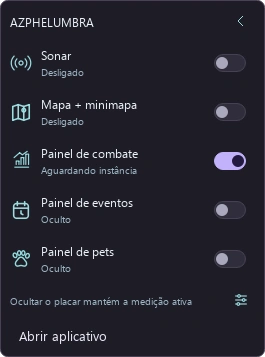
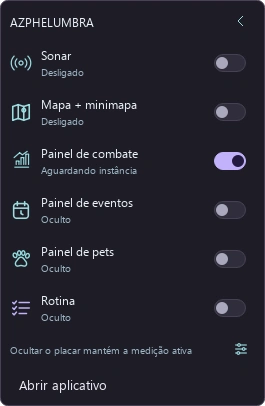
Publish beta4 downloads and update the bilingual website guide

diff --git a/website/index.html b/website/index.html
@@ -30,10 +30,10 @@
   <main id="main">
     <section class="hero container">
       <div class="hero-copy">
-        <div class="eyebrow"><span class="live-dot"></span>AION 2 COMPANION <span class="version-pill">v0.10.0-beta.1</span></div>
+        <div class="eyebrow"><span class="live-dot"></span>AION 2 COMPANION <span class="version-pill">v0.10.0-beta.4</span></div>
         <h1 data-i18n="hero.title">Sua próxima<br>descoberta<br><em>começa aqui.</em></h1>
         <p class="hero-description" data-i18n="hero.description">Mapas, coletas, cubos, pets, eventos e combate em um só lugar. Aether cuida do mapa. Você vive a aventura.</p>
-        <div class="hero-buttons"><a class="button primary" href="https://github.com/jpgalvao-architect/strigoi-aether-map/releases/download/v0.10.0-beta.1/StrigoiAetherMap-Setup-0.10.0-beta.1.exe"><svg viewBox="0 0 24 24" fill="none" stroke="currentColor" stroke-width="1.8" aria-hidden="true"><path d="M12 3v12m-5-5 5 5 5-5M4 16v5h16v-5"/></svg><span data-i18n="download.installer">Baixar instalador</span></a><a class="button secondary" href="#explore"><span data-i18n="hero.tour">Conhecer o app</span><span aria-hidden="true">↗</span></a><a class="button secondary" href="guide.html" data-i18n="start.guide">Abrir guia interativo</a></div>
+        <div class="hero-buttons"><a class="button primary" href="https://github.com/jpgalvao-architect/strigoi-aether-map/releases/download/v0.10.0-beta.4/StrigoiAetherMap-Setup-0.10.0-beta.4.exe"><svg viewBox="0 0 24 24" fill="none" stroke="currentColor" stroke-width="1.8" aria-hidden="true"><path d="M12 3v12m-5-5 5 5 5-5M4 16v5h16v-5"/></svg><span data-i18n="download.installer">Baixar instalador</span></a><a class="button secondary" href="#explore"><span data-i18n="hero.tour">Conhecer o app</span><span aria-hidden="true">↗</span></a><a class="button secondary" href="guide.html" data-i18n="start.guide">Abrir guia interativo</a></div>
         <p class="download-note"><svg viewBox="0 0 24 24" aria-hidden="true"><path fill="currentColor" d="m2 4 9-1v9H2zm11-1 9-1v10h-9zM2 14h9v9l-9-1zm11 0h9v10l-9-1z"/></svg><span data-i18n="hero.platform">Windows 10/11 · 64 bits · PT-BR / EN-US</span></p>
         <div class="hero-bottom"><span data-i18n="hero.free">Gratuito, com código aberto</span><span class="divider-dot">·</span><a href="https://github.com/jpgalvao-architect/strigoi-aether-map/blob/main/LICENSE" data-i18n="hero.license">Código GPLv3</a></div>
       </div>
@@ -49,13 +49,13 @@
     <div class="feature-ribbon"><div class="container ribbon-inner"><span><img src="assets/icons/atlas.svg" alt="" width="22" height="22"><span data-i18n="ribbon.maps">Mapas reais</span></span><span><img src="assets/icons/overlay.svg" alt="" width="22" height="22"><span data-i18n="ribbon.overlay">Overlay externo</span></span><span><img src="assets/icons/sonar.svg" alt="" width="22" height="22"><span data-i18n="ribbon.sonar">Acessibilidade auditiva</span></span><span><img src="assets/icons/moon.svg" alt="" width="22" height="22"><span data-i18n="ribbon.local">Seus registros, no seu PC</span></span></div></div>
     <section class="container explore-section" id="explore">
       <div class="section-heading"><div><p class="eyebrow" data-i18n="explore.eyebrow">MENOS ALT-TAB. MAIS EXPLORAÇÃO.</p><h2 data-i18n="explore.title">Um mapa que acompanha<br>a sua jornada.</h2></div><p data-i18n="explore.description">Escolha suas camadas, registre as visitas e deixe o Azphelumbra acompanhar o que importa para você.</p></div>
-      <div class="showcase-tabs" role="tablist" aria-label="Conheça as telas" data-i18n-aria="showcase.label"><button type="button" role="tab" id="tab-atlas" aria-selected="true" aria-controls="showcase-panel" tabindex="0" data-tab="atlas"><img src="assets/icons/atlas.svg" alt=""><span data-i18n="tab.atlas">Atlas</span></button><button type="button" role="tab" id="tab-overlay" aria-selected="false" aria-controls="showcase-panel" tabindex="-1" data-tab="overlay"><img src="assets/icons/overlay.svg" alt=""><span data-i18n="tab.overlay">Overlay</span></button><button type="button" role="tab" id="tab-events" aria-selected="false" aria-controls="showcase-panel" tabindex="-1" data-tab="events"><img src="assets/icons/events.svg" alt=""><span data-i18n="tab.events">Eventos</span></button><button type="button" role="tab" id="tab-sonar" aria-selected="false" aria-controls="showcase-panel" tabindex="-1" data-tab="sonar"><img src="assets/icons/sonar.svg" alt=""><span>Sonar</span></button><button type="button" role="tab" id="tab-combat" aria-selected="false" aria-controls="showcase-panel" tabindex="-1" data-tab="combat"><img src="assets/icons/combat.svg" alt=""><span data-i18n="tab.combat">Combate</span></button><button type="button" role="tab" id="tab-pets" aria-selected="false" aria-controls="showcase-panel" tabindex="-1" data-tab="pets"><img src="assets/icons/pets.svg" alt=""><span data-i18n="tab.pets">Pets</span></button></div>
-      <div class="showcase" id="showcase-panel" role="tabpanel" aria-labelledby="tab-atlas" tabindex="0"><div class="window-chrome"><span class="window-dots"><i></i><i></i><i></i></span><span>AZPHELUMBRA <span class="chrome-version">/ v0.10.0-beta.1</span></span><span class="window-indicator" data-i18n="showcase.actual">TELA REAL DO APP</span></div><img id="app-screenshot" src="assets/app-atlas-pt_BR.webp" alt="Atlas do aplicativo exibindo o mapa real de Altgard" data-i18n-alt="screen.atlas" width="2070" height="1350" loading="lazy"><div class="showcase-caption"><span id="showcase-number">01 / 05</span><div><h3 id="showcase-title" data-i18n="showcase.atlas.title">Seu atlas. Suas camadas.</h3><p id="showcase-description" data-i18n="showcase.atlas.description">Veja ervas e cubos juntos, filtre os recursos e marque os lugares que você já visitou.</p></div><img id="showcase-icon" src="assets/icons/atlas.svg" width="40" height="40" alt=""></div></div>
+      <div class="showcase-tabs" role="tablist" aria-label="Conheça as telas" data-i18n-aria="showcase.label"><button type="button" role="tab" id="tab-atlas" aria-selected="true" aria-controls="showcase-panel" tabindex="0" data-tab="atlas"><img src="assets/icons/atlas.svg" alt=""><span data-i18n="tab.atlas">Atlas</span></button><button type="button" role="tab" id="tab-overlay" aria-selected="false" aria-controls="showcase-panel" tabindex="-1" data-tab="overlay"><img src="assets/icons/overlay.svg" alt=""><span data-i18n="tab.overlay">Overlay</span></button><button type="button" role="tab" id="tab-events" aria-selected="false" aria-controls="showcase-panel" tabindex="-1" data-tab="events"><img src="assets/icons/events.svg" alt=""><span data-i18n="tab.events">Eventos</span></button><button type="button" role="tab" id="tab-sonar" aria-selected="false" aria-controls="showcase-panel" tabindex="-1" data-tab="sonar"><img src="assets/icons/sonar.svg" alt=""><span>Sonar</span></button><button type="button" role="tab" id="tab-combat" aria-selected="false" aria-controls="showcase-panel" tabindex="-1" data-tab="combat"><img src="assets/icons/combat.svg" alt=""><span data-i18n="tab.combat">Combate</span></button><button type="button" role="tab" id="tab-pets" aria-selected="false" aria-controls="showcase-panel" tabindex="-1" data-tab="pets"><img src="assets/icons/pets.svg" alt=""><span data-i18n="tab.pets">Pets</span></button><button type="button" role="tab" id="tab-routine" aria-selected="false" aria-controls="showcase-panel" tabindex="-1" data-tab="routine"><img src="assets/icons/routine.svg" alt=""><span data-i18n="tab.routine">Rotina</span></button></div>
+      <div class="showcase" id="showcase-panel" role="tabpanel" aria-labelledby="tab-atlas" tabindex="0"><div class="window-chrome"><span class="window-dots"><i></i><i></i><i></i></span><span>AZPHELUMBRA <span class="chrome-version">/ v0.10.0-beta.4</span></span><span class="window-indicator" data-i18n="showcase.actual">TELA REAL DO APP</span></div><img id="app-screenshot" src="assets/app-atlas-pt_BR.webp" alt="Atlas do aplicativo exibindo o mapa real de Altgard" data-i18n-alt="screen.atlas" width="2070" height="1350" loading="lazy"><div class="showcase-caption"><span id="showcase-number">01 / 07</span><div><h3 id="showcase-title" data-i18n="showcase.atlas.title">Seu atlas. Suas camadas.</h3><p id="showcase-description" data-i18n="showcase.atlas.description">Veja ervas e cubos juntos, filtre os recursos e marque os lugares que você já visitou.</p></div><img id="showcase-icon" src="assets/icons/atlas.svg" width="40" height="40" alt=""></div></div>
       <p class="source-note" data-i18n="explore.source">Imagens reais dos mapas e posições comunitárias com origem documentada. Os marcadores indicam locais possíveis, não spawns garantidos.</p>
     </section>
     <section class="sonar-section" id="sonar"><div class="container sonar-grid"><div class="sonar-visual" aria-hidden="true"><div class="sonar-ring ring-1"></div><div class="sonar-ring ring-2"></div><div class="sonar-ring ring-3"></div><img class="sonar-cube" src="assets/icons/cube.svg" alt="" width="88" height="88"><img class="sonar-alert" src="assets/sonar-alert-pt_BR.webp" data-alert-image alt="" width="350" height="181" loading="lazy"><span class="visual-caption" data-i18n="sonar.visual">UMA PISTA SONORA. UM AVISO VISUAL.</span></div><div class="sonar-copy"><p class="eyebrow" data-i18n="sonar.eyebrow">ACESSIBILIDADE AUDITIVA</p><h2 data-i18n="sonar.title">Uma pista que<br>você pode <em>ver.</em></h2><p data-i18n="sonar.description">O Sonar procura indícios do som do cubo e mostra um aviso com barra de intensidade e histórico recente. O volume do jogo influencia a leitura.</p><ul class="check-list"><li data-i18n="sonar.point1">Selecione o aplicativo do jogo e ative quando quiser.</li><li data-i18n="sonar.point2">Sem microfone, gravação ou envio do áudio.</li><li data-i18n="sonar.point3">O Sonar começa desligado a cada abertura.</li></ul><p class="accessibility-note" data-i18n="sonar.note">Desenvolvido como recurso de acessibilidade para pessoas surdas ou com deficiência auditiva. O aviso é uma pista: não confirma o cubo nem revela sua posição exata.</p></div></div></section>
     <section class="container start-section"><p class="eyebrow" data-i18n="start.eyebrow">DO DOWNLOAD À AVENTURA</p><h2 data-i18n="start.title">Pronto em poucos passos.</h2><div class="steps"><article><span class="step-number">01</span><h3 data-i18n="start.one.title">Instale e escolha o idioma</h3><p data-i18n="start.one.text">Baixe o instalador, leia os termos e escolha português ou inglês. Não precisa instalar Python.</p></article><article><span class="step-number">02</span><h3 data-i18n="start.two.title">Monte o seu mapa</h3><p data-i18n="start.two.text">Escolha as camadas do Atlas. A mesma seleção aparece no minimapa e no mapa grande.</p></article><article><span class="step-number">03</span><h3 data-i18n="start.three.title">Entre na aventura</h3><p data-i18n="start.three.text">Ative o overlay, selecione o terreno do minimapa uma vez e escolha o evento que quer acompanhar.</p></article></div><a class="button secondary guide-entry" href="guide.html" data-i18n="start.guide">Abrir guia interativo</a></section>
-    <section class="container download-section" id="download"><div class="download-box"><div><p class="eyebrow" data-i18n="download.eyebrow">SEU PEQUENO GUARDIÃO ESTÁ PRONTO</p><h2 data-i18n="download.title">Nos vemos em Atréia.</h2><p data-i18n="download.description">Escolha como quer usar o Azphelumbra. As duas versões têm os mesmos recursos e incluem o código-fonte.</p></div><div class="download-options"><a class="download-option recommended" href="https://github.com/jpgalvao-architect/strigoi-aether-map/releases/download/v0.10.0-beta.1/StrigoiAetherMap-Setup-0.10.0-beta.1.exe"><div class="option-heading"><span data-i18n="download.installer">Baixar instalador</span><span class="recommend-tag" data-i18n="download.recommended">Recomendado</span></div><p data-i18n="download.installer.detail">Atalhos, idioma inicial, desinstalação e assistente oficial do Npcap para Combate e Pets.</p><span class="option-meta">.EXE · 220.4 MB <span aria-hidden="true">↓</span></span></a><a class="download-option" href="https://github.com/jpgalvao-architect/strigoi-aether-map/releases/download/v0.10.0-beta.1/Azphelumbra-0.10.0-beta.1-windows-x64.zip"><div class="option-heading"><span data-i18n="download.portable">Baixar portátil</span><span aria-hidden="true">↗</span></div><p data-i18n="download.portable.detail">Extraia a pasta inteira e abra o app.</p><span class="option-meta">.ZIP · 259.2 MB <span aria-hidden="true">↓</span></span></a></div><p class="source-note" data-i18n="download.beta">Azphelumbra 0.10: interface Vigília, placar Impacto com barras de DPS por classe e faixa Fita de eventos. Sonar, Pets e menu rápido seguem a nova identidade. Suas preferências são preservadas. Combate e PvP continuam experimentais.</p><div class="download-links"><span>v0.10.0-beta.1 · Windows x64</span><a href="terms.html" data-i18n="download.terms">Ler os termos de uso</a><a href="https://github.com/jpgalvao-architect/strigoi-aether-map/releases/download/v0.10.0-beta.1/SHA256SUMS.txt" data-i18n="download.checksums">Verificar arquivos · SHA-256</a></div></div></section>
+    <section class="container download-section" id="download"><div class="download-box"><div><p class="eyebrow" data-i18n="download.eyebrow">SEU PEQUENO GUARDIÃO ESTÁ PRONTO</p><h2 data-i18n="download.title">Nos vemos em Atréia.</h2><p data-i18n="download.description">Escolha como quer usar o Azphelumbra. As duas versões têm os mesmos recursos e incluem o código-fonte.</p></div><div class="download-options"><a class="download-option recommended" href="https://github.com/jpgalvao-architect/strigoi-aether-map/releases/download/v0.10.0-beta.4/StrigoiAetherMap-Setup-0.10.0-beta.4.exe"><div class="option-heading"><span data-i18n="download.installer">Baixar instalador</span><span class="recommend-tag" data-i18n="download.recommended">Recomendado</span></div><p data-i18n="download.installer.detail">Atalhos, idioma inicial, desinstalação e assistente oficial do Npcap para Combate e Pets.</p><span class="option-meta">.EXE · 220.5 MB <span aria-hidden="true">↓</span></span></a><a class="download-option" href="https://github.com/jpgalvao-architect/strigoi-aether-map/releases/download/v0.10.0-beta.4/Azphelumbra-0.10.0-beta.4-windows-x64.zip"><div class="option-heading"><span data-i18n="download.portable">Baixar portátil</span><span aria-hidden="true">↗</span></div><p data-i18n="download.portable.detail">Extraia a pasta inteira e abra o app.</p><span class="option-meta">.ZIP · 259.3 MB <span aria-hidden="true">↓</span></span></a></div><p class="source-note" data-i18n="download.beta">Novo na beta.4: contador de pets com o personagem já logado, leitura de Insight e almas pela tela e ocultação dos overlays em mais menus. A Rotina reúne seus personagens e os saldos de Odyle, com Pulso compacto ou Faixa. Preferências preservadas; Combate e PvP continuam experimentais.</p><div class="download-links"><span>v0.10.0-beta.4 · Windows x64</span><a href="terms.html" data-i18n="download.terms">Ler os termos de uso</a><a href="https://github.com/jpgalvao-architect/strigoi-aether-map/releases/download/v0.10.0-beta.4/SHA256SUMS.txt" data-i18n="download.checksums">Verificar arquivos · SHA-256</a></div></div></section>
     <section class="container faq-section"><div><p class="eyebrow" data-i18n="faq.eyebrow">SEM MISTÉRIO</p><h2 data-i18n="faq.title">Antes de partir.</h2></div><div class="faq-list"><details><summary data-i18n="faq.one.q">O aplicativo modifica o jogo?</summary><p data-i18n="faq.one.a">Não. Os marcadores e avisos são janelas externas de overlay. O app analisa a imagem da tela e recebe o áudio pelo Windows; não injeta código nas DLLs, não altera arquivos nem lê a memória do AION 2. O Combate lê passivamente a conexão do jogo usando Npcap. Os termos descrevem as condições de uso.</p></details><details><summary data-i18n="faq.two.q">Funciona no minimapa e no mapa grande?</summary><p data-i18n="faq.two.a">Sim, com minimapa retangular e norte fixo. Selecione só o terreno do minimapa, sem a barra de título. Ao abrir o mapa grande com M, o overlay muda automaticamente; ao fechar, volta ao minimapa.</p></details><details><summary data-i18n="faq.three.q">A agenda é para a América do Sul?</summary><p data-i18n="faq.three.a">Há perfis de agenda SA, com fontes documentadas e horários no fuso que você escolher. Os mapas e locais possíveis vêm de bases comunitárias compartilhadas; as posições não foram verificadas individualmente em SA. Você pode consultar as fontes no aplicativo.</p></details><details><summary data-i18n="faq.four.q">Posso usar sem abrir o jogo?</summary><p data-i18n="faq.four.a">O Atlas, as visitas e a agenda local funcionam offline. Para usar overlay e Sonar, abra o jogo e ative esses recursos. Suas preferências e registros ficam no seu computador.</p></details><details><summary data-i18n="faq.five.q">Como troco o idioma depois de instalar?</summary><p data-i18n="faq.five.a">Abra Configurações → Idioma do aplicativo. A troca entre português do Brasil e inglês dos EUA é imediata. Ela não altera seus filtros, visitas, região ou fuso horário.</p></details><details><summary data-i18n="faq.six.q">Onde estão as licenças e o código?</summary><p data-i18n="faq.six.a">O código próprio usa GPLv3 e está no GitHub e nos downloads. Mapas, dados comunitários e componentes de terceiros mantêm seus direitos e licenças, incluindo CC BY-NC 4.0 para mapas e dados comunitários.</p><a href="https://github.com/jpgalvao-architect/strigoi-aether-map/blob/main/THIRD_PARTY.md" data-i18n="faq.licenses">Consultar licenças e créditos →</a></details></div></section>
     <section class="container support-section" id="support"><div class="support-copy"><img src="assets/icons/donate.svg" width="38" height="38" alt=""><h2 data-i18n="support.title">Curtiu a companhia?</h2><p data-i18n="support.description">Se meu trabalho te ajudou e você quiser retribuir, pode deixar uma força por aqui. Sem pressão: usar o app, mandar feedback e compartilhar com a galera já ajuda demais.</p><a class="button secondary" href="https://link.mercadopago.com.br/thothworlds" target="_blank" rel="noopener noreferrer"><span data-i18n="support.creator">Apoiar o criador</span><span aria-hidden="true">↗</span></a><small data-i18n="support.recipient">Apoio pessoal ao criador · Mercado Pago</small></div><div class="community-support"><p class="eyebrow" data-i18n="support.community.eyebrow">APOIE TAMBÉM A COMUNIDADE SURDA</p><p data-i18n="support.community.description">Você também pode contribuir diretamente com instituições brasileiras que apoiam pessoas surdas.</p><a href="https://assjp.org.br/junte-nos/seja-apoiador/" target="_blank" rel="noopener noreferrer">ASSJP<span>São José dos Pinhais</span><span aria-hidden="true">↗</span></a><a href="https://www.ascontagem.org.br/" target="_blank" rel="noopener noreferrer">ASC<span>Contagem</span><span aria-hidden="true">↗</span></a><small data-i18n="support.community.note">Doações feitas nos canais oficiais das instituições. Destinatários diferentes do apoio ao criador.</small></div></section>
   </main>

diff --git a/website/guide-content.js b/website/guide-content.js
@@ -123,7 +123,7 @@ window.StrigoiGuide = {
             "en_US": "Open the emblem menu"
           },
           "where": {
-            "pt_BR": "Mascote flutuante",
+            "pt_BR": "Emblema flutuante",
             "en_US": "Floating emblem"
           },
           "body": {
@@ -141,12 +141,12 @@ window.StrigoiGuide = {
             "en_US": "Choose what appears"
           },
           "where": {
-            "pt_BR": "Menu → quatro controles",
-            "en_US": "Menu → four controls"
+            "pt_BR": "Menu rápido → módulos",
+            "en_US": "Quick menu → modules"
           },
           "body": {
-            "pt_BR": "Sonar liga ou desliga a análise do áudio. Mapa + minimapa controla os dois mapas juntos. Painel de combate habilita a exibição automática em instâncias; fora delas, mostra Aguardando instância. Painel de eventos mostra ou oculta a agenda. Configure primeiro o minimapa e o Sonar nas respectivas abas.",
-            "en_US": "Sonar turns audio analysis on or off. Map + minimap controls both maps. Combat panel arms automatic display in instances; outside them, it shows Waiting for instance. Events panel shows or hides the schedule. Set up the minimap and Sonar in their tabs first."
+            "pt_BR": "Ative Sonar e Mapa + minimapa, mostre ou oculte os painéis de Combate, Eventos, Pets e Rotina. O placar aparece nas instâncias reconhecidas. Configure primeiro o minimapa e o Sonar nas respectivas abas.",
+            "en_US": "Enable Sonar and Map + minimap, and show or hide Combat, Events, Pets and Routine panels. The meter appears in recognized instances. Set up the minimap and Sonar in their tabs first."
           },
           "tip": {
             "pt_BR": "Ocultar o placar mantém a medição de combate ativa.",
@@ -200,20 +200,20 @@ window.StrigoiGuide = {
       "steps": [
         {
           "title": {
-            "pt_BR": "Sincronize ao entrar",
-            "en_US": "Sync at login"
+            "pt_BR": "Ative o contador",
+            "en_US": "Enable the counter"
           },
           "where": {
             "pt_BR": "Pets → Sincronizar com o jogo",
             "en_US": "Pets → Sync with game"
           },
           "body": {
-            "pt_BR": "Abra o Azphelumbra antes de entrar no personagem e confira a região. A coleção é recebida na entrada; não precisa deixar o menu do jogo aberto. A leitura automática usa Npcap.",
-            "en_US": "Open Azphelumbra before logging into your character and check the region. The collection arrives during login; you do not need to leave the game menu open. Automatic reading uses Npcap."
+            "pt_BR": "Deixe Sincronizar com o jogo ativo e favorite os pets que quer acompanhar. Mesmo com o personagem já logado, o painel mostra os ganhos recebidos nesta captura. A leitura automática usa Npcap.",
+            "en_US": "Leave Sync with game enabled and favorite the pets to track. Even when already logged in, the panel shows gains received in this capture. Automatic reading uses Npcap."
           },
           "tip": {
-            "pt_BR": "Abriu o app depois de entrar? Volte à seleção de personagem e entre novamente quando puder. A coleção manual funciona sem Npcap.",
-            "en_US": "Opened the app after login? Return to character selection and log in again when convenient. Manual records work without Npcap."
+            "pt_BR": "Sem uma leitura inicial, ganhos recebidos não são o total da coleção. Abra os detalhes do pet no jogo para confirmar o saldo.",
+            "en_US": "Without an initial reading, received gains are not the collection total. Open the pet details in game to confirm its balance."
           }
         },
         {
@@ -230,8 +230,8 @@ window.StrigoiGuide = {
             "en_US": "Search by pet or monster, filter by map and choose an Insight goal. Mark Favorite to track it in the panel. Pet Insight differs from the genus level."
           },
           "tip": {
-            "pt_BR": "Informações não recebidas ficam desconhecidas. Registros manuais são separados e podem ser desfeitos com Usar informação do jogo.",
-            "en_US": "Unread information stays unknown. Manual records remain separate and can be undone with Use game information."
+            "pt_BR": "Abra os detalhes do pet no jogo por alguns instantes. O app lê Pet Insight e almas; não confunde esse valor com o nível da família. Ajustar manualmente continua disponível.",
+            "en_US": "Open the pet details in game for a few moments. The app reads Pet Insight and souls without confusing it with the genus level. Adjust manually remains available."
           }
         },
         {
@@ -266,8 +266,8 @@ window.StrigoiGuide = {
             "en_US": "The Pets layer can appear alongside cubes and gatherables on maps. Choose All, Favorites or Pending goals. Locations are documented client references; current SA presence is unconfirmed."
           },
           "tip": {
-            "pt_BR": "A coleção inicial foi conferida em SA. Ganho de almas ainda aguarda conferência real. Distância e direção de radar ao vivo não estão disponíveis nesta versão.",
-            "en_US": "The initial collection matched SA gameplay. Soul gains still await a live check. Live radar distance and direction are not available in this version."
+            "pt_BR": "Ganhos de almas foram conferidos em SA. Os mapas indicam posições possíveis; distância e direção de um radar ao vivo não estão disponíveis.",
+            "en_US": "Soul gains were checked in SA. Maps indicate possible sites; live radar distance and direction are not available."
           }
         }
       ],
@@ -278,8 +278,8 @@ window.StrigoiGuide = {
             "en_US": "Why is my collection empty?"
           },
           "answer": {
-            "pt_BR": "A coleção é recebida na entrada do personagem. Abra o Azphelumbra antes de entrar, confirme a região e a opção de sincronização e verifique se Npcap está instalado. Informações ainda não recebidas ficam desconhecidas.",
-            "en_US": "The collection arrives when logging into a character. Open Azphelumbra before login, check the region and sync option, and verify Npcap is installed. Unread progress stays unknown."
+            "pt_BR": "Confira a região, a sincronização e o Npcap. Abra os detalhes do pet no jogo para ler o total. Se a identidade do personagem não chegou, os ganhos e a leitura ficam na captura atual, sem alterar um perfil salvo. Para salvar por personagem, abra o app antes de entrar nele.",
+            "en_US": "Check region, sync and Npcap. Open the pet details in game to read its total. If character identity has not arrived, gains and readings remain in the current capture without changing a saved profile. To save character-bound progress, open the app before login."
           }
         },
         {
@@ -797,6 +797,87 @@ window.StrigoiGuide = {
           "answer": {
             "pt_BR": "Confira agenda e fuso. Ao reportar, envie evento, região do servidor, horário do jogo e print com a contagem do painel.",
             "en_US": "Check schedule and time zone. Report event, server region, game time, and a screenshot showing the countdown."
+          }
+        }
+      ]
+    },
+    {
+      "id": "routine",
+      "icon": "routine",
+      "title": {
+        "pt_BR": "Rotina e Odyle",
+        "en_US": "Routine and Odyle"
+      },
+      "description": {
+        "pt_BR": "Seus personagens e recursos em um Panorama.",
+        "en_US": "Your characters and resources in an Overview."
+      },
+      "image": "routine",
+      "steps": [
+        {
+          "title": {
+            "pt_BR": "Sincronize o personagem",
+            "en_US": "Sync your character"
+          },
+          "where": {
+            "pt_BR": "Rotina → Panorama",
+            "en_US": "Routine → Overview"
+          },
+          "body": {
+            "pt_BR": "Abra o app antes de entrar no personagem, com Npcap instalado. A Rotina recebe a identificação e os saldos de Odyle básica e recarregada. Os registros ficam separados por personagem, servidor e região.",
+            "en_US": "Open the app before character login with Npcap installed. Routine receives identity and basic and charged Odyle balances. Records stay separate by character, server and region."
+          },
+          "tip": {
+            "pt_BR": "Aguardando leitura significa que o valor não chegou. Registro salvo mostra uma leitura anterior, com horário; não há reposição estimada enquanto estiver desconectado.",
+            "en_US": "Waiting for reading means the value has not arrived. Saved record shows a previous reading with its time; no offline recharge is estimated."
+          }
+        },
+        {
+          "title": {
+            "pt_BR": "Escolha Pulso ou Faixa",
+            "en_US": "Choose Pulse or Strip"
+          },
+          "where": {
+            "pt_BR": "Personalizar Rotina → Mostrar overlay da Rotina",
+            "en_US": "Customize Routine → Show Routine overlay"
+          },
+          "body": {
+            "pt_BR": "Escolha Pulso compacto ou Faixa e os recursos que quer acompanhar. No jogo, use o ícone de layout para alternar os estilos e a seta para recolher ou expandir. Arraste o título e use o cadeado para travar a posição.",
+            "en_US": "Choose Compact Pulse or Strip and the resources to track. In game, use the layout icon to switch styles and the arrow to collapse or expand. Drag the title and use the lock to keep its position."
+          },
+          "tip": {
+            "pt_BR": "Também pode ativar Rotina no menu rápido. Estilo, recursos e posição ficam salvos. Ocultar o painel mantém a sincronização.",
+            "en_US": "You can also enable Routine in quick controls. Style, resources and position are saved. Hiding the panel keeps sync active."
+          }
+        },
+        {
+          "title": {
+            "pt_BR": "Consulte outros personagens",
+            "en_US": "View other characters"
+          },
+          "where": {
+            "pt_BR": "Rotina → registros do Panorama",
+            "en_US": "Routine → Overview records"
+          },
+          "body": {
+            "pt_BR": "O Panorama guarda as leituras dos personagens identificados. Consultar um registro antigo não troca o personagem acompanhado pelo overlay. Confira o horário e o status de cada saldo.",
+            "en_US": "The Overview keeps readings for identified characters. Viewing an older record does not switch the character followed by the overlay. Check each balance timestamp and status."
+          },
+          "tip": {
+            "pt_BR": "A leitura inicial foi conferida em SA. Limites, previsões de recarga e contadores de dungeon ou arena não são presumidos.",
+            "en_US": "Initial readings were checked in SA. Caps, recharge forecasts and dungeon or arena counters are not assumed."
+          }
+        }
+      ],
+      "help": [
+        {
+          "question": {
+            "pt_BR": "O saldo ainda não apareceu.",
+            "en_US": "My balance has not appeared."
+          },
+          "answer": {
+            "pt_BR": "Confira Npcap e a sincronização em Personalizar Rotina. Se abriu o app com o personagem já logado, volte à seleção e entre novamente quando for conveniente. O app espera a identificação antes de associar um saldo.",
+            "en_US": "Check Npcap and sync in Customize Routine. If you opened the app while already logged in, return to character selection and log in again when convenient. The app waits for identity before assigning a balance."
           }
         }
       ]

diff --git a/website/site.js b/website/site.js
@@ -15,15 +15,19 @@
     'showcase.overlay.description': 'As camadas acompanham os dois mapas. Os painéis se ocultam ao sair do jogo ou abrir menus reconhecidos; no mapa grande, os marcadores permanecem.',
     'showcase.events.title': 'Um olho na aventura. Outro no relógio.',
     'showcase.events.description': 'Escolha o evento do painel flutuante. Recolha para acompanhar o próximo horário ou expanda para ver o dia.',
+    'tab.routine': 'Rotina',
+    'screen.routine': 'Panorama de personagens e saldos de Energia de Odyle',
+    'showcase.routine.title': 'Seus personagens. Sua próxima jornada.',
+    'showcase.routine.description': 'Consulte os saldos de Odyle recebidos do jogo e escolha Pulso compacto ou Faixa para acompanhar o personagem atual. Cada registro mostra se a leitura é atual ou salva.',
     'tab.pets': 'Pets',
     'screen.pets': 'Coleção de pets com retratos originais e favoritos',
     'showcase.pets.title': 'Sua coleção. Seus próximos favoritos.',
-    'showcase.pets.description': 'Acompanhe o Insight, organize favoritos e veja locais de farm de referência. O painel compacto segue sua coleção; o radar ao vivo ainda aguarda validação.',
+    'showcase.pets.description': 'Favorite um pet e acompanhe as almas coletadas. Abra seus detalhes no jogo para ler o Insight e confirmar o total. Os mapas mostram locais de farm de referência.',
     'tab.combat': 'Combate',
     'screen.combat': 'Módulo Combate com dano observado, DPS e participação do grupo',
     'showcase.combat.title': 'Seu grupo. Seu dano observado.',
     'showcase.combat.description': 'A medição aguarda o jogo e o painel aparece nas instâncias reconhecidas. Ao sair, ele se oculta; a leitura continua. O menu rápido permite desativar a exibição, e o histórico fica preservado.',
-    'download.beta': 'Azphelumbra 0.10: interface Vigília, placar Impacto com barras de DPS por classe e faixa Fita de eventos. Sonar, Pets e menu rápido seguem a nova identidade. Suas preferências são preservadas. Combate e PvP continuam experimentais.',
+    'download.beta': 'Novo na beta.4: contador de pets com o personagem já logado, leitura de Insight e almas pela tela e ocultação dos overlays em mais menus. A Rotina reúne seus personagens e os saldos de Odyle, com Pulso compacto ou Faixa. Preferências preservadas; Combate e PvP continuam experimentais.',
     'showcase.sonar.title': 'O som vira uma pista na tela.',
     'showcase.sonar.description': 'Ative o Sonar e acompanhe a intensidade estimada do som reconhecido no medidor do aviso.',
   });
@@ -54,15 +58,19 @@
     'showcase.overlay.description': 'Layers follow both maps. Panels hide outside the game window and in recognized menus; full-map markers remain available.',
     'showcase.events.title': 'Adventure in sight. Time on your side.',
     'showcase.events.description': 'Choose the floating panel event. Collapse it to track the next occurrence or expand it to see the day.',
+    'tab.routine': 'Routine',
+    'screen.routine': 'Character overview and Odyle Energy balances',
+    'showcase.routine.title': 'Your characters. Your next journey.',
+    'showcase.routine.description': 'View Odyle balances received from the game and choose Compact Pulse or Strip to follow the current character. Each record distinguishes current and saved readings.',
     'tab.pets': 'Pets',
     'screen.pets': 'Pet collection with original portraits and favorites',
     'showcase.pets.title': 'Your collection. Your next favorites.',
-    'showcase.pets.description': 'Track Insight, organize favorites and view reference farming locations. The compact panel follows your collection; live radar still awaits validation.',
+    'showcase.pets.description': 'Favorite a pet and follow collected souls. Open its in-game details to read Insight and confirm the total. Maps show reference farming locations.',
     'tab.combat': 'Combat',
     'screen.combat': 'Combat module with observed damage, DPS and group share',
     'showcase.combat.title': 'Your group. Your observed damage.',
     'showcase.combat.description': 'Capture waits for the game and the panel appears in recognized instances. On exit it hides while capture continues. Quick controls can disable panel display, and history is preserved.',
-    'download.beta': 'Azphelumbra 0.10: the Vigília interface, Impacto class-colored DPS bars, and compact Fita event strip. Sonar, Pets and quick controls share the new identity. Existing preferences are preserved. Combat and PvP remain experimental.',
+    'download.beta': 'New in beta.4: pet pickup counting while already logged in, on-screen Insight and soul readings, and overlay hiding in more menus. Routine combines character records and Odyle balances, with Compact Pulse or Strip. Preferences are preserved; Combat and PvP remain experimental.',
     'showcase.sonar.title': 'Sound becomes a clue on screen.',
     'showcase.sonar.description': 'Enable Sonar and follow recognized sound intensity in the alert meter. The Sonar page also shows recent history.',
     'explore.source': 'Real map images and community locations with documented sources. Markers indicate possible locations, not guaranteed spawns.',

diff --git a/website/guide.html b/website/guide.html
@@ -1,5 +1,5 @@
 <!doctype html>
-<html lang="pt-BR"><head><meta charset="utf-8"><meta name="viewport" content="width=device-width, initial-scale=1"><meta name="theme-color" content="#0b0e18"><meta name="description" content="Guia interativo do Azphelumbra: instalação, menu rápido, mapas, Sonar, combate e eventos, com passos e telas reais do aplicativo."><link rel="canonical" href="https://jpgalvao-architect.github.io/strigoi-aether-map/guide.html"><link rel="icon" href="assets/favicon.ico"><link rel="stylesheet" href="styles.css"><link rel="stylesheet" href="guide.css"><script src="guide-content.js" defer></script><script src="site.js" defer></script><script src="guide.js" defer></script><title>Guia interativo — Azphelumbra</title></head>
+<html lang="pt-BR"><head><meta charset="utf-8"><meta name="viewport" content="width=device-width, initial-scale=1"><meta name="theme-color" content="#0b0e18"><meta name="description" content="Guia interativo do Azphelumbra: instalação, menu rápido, mapas, Sonar, combate, eventos, pets e Rotina, com passos e telas reais do aplicativo."><link rel="canonical" href="https://jpgalvao-architect.github.io/strigoi-aether-map/guide.html"><link rel="icon" href="assets/favicon.ico"><link rel="stylesheet" href="styles.css"><link rel="stylesheet" href="guide.css"><script src="guide-content.js" defer></script><script src="site.js" defer></script><script src="guide.js" defer></script><title>Guia interativo — Azphelumbra</title></head>
 <body data-page="guide"><a class="skip-link" href="#main" data-i18n="skip">Ir para o conteúdo</a>
   <header class="site-header">
     <div class="container nav-row">
@@ -14,7 +14,7 @@
     <div class="guide-heading"><div><a class="legal-back" href="index.html" data-i18n="guide.back">← Voltar ao site</a><p class="eyebrow" data-i18n="guide.eyebrow">SEU GUIA DE EXPLORAÇÃO</p><h1 data-i18n="guide.title">Vamos configurar<br><em>sua aventura.</em></h1><p data-i18n="guide.intro">Escolha um módulo e siga uma etapa por vez. Marque o que já fez; seu progresso fica neste navegador.</p></div><img src="assets/aether-avatar.webp" width="140" height="140" alt="" class="guide-avatar"></div>
     <noscript><p>Este passo a passo precisa de JavaScript. Consulte também as instruções em <a href="https://github.com/jpgalvao-architect/strigoi-aether-map/blob/main/README.md">Português</a> ou <a href="https://github.com/jpgalvao-architect/strigoi-aether-map/blob/main/README.en-US.md">English</a>.</p></noscript>
     <div class="guide-layout" id="guide-layout" hidden>
-      <aside class="guide-sidebar"><h2 data-i18n="guide.topics">Escolha um módulo</h2><nav id="guide-topics" aria-label="Escolha um módulo" data-i18n-aria="guide.topics"></nav><div class="guide-progress"><h3 data-i18n="guide.progress">Seu progresso</h3><progress id="guide-progress" value="0" max="25" aria-label="Seu progresso" data-i18n-aria="guide.progress"></progress><p id="guide-progress-text"></p><button id="guide-reset" type="button" data-i18n="guide.reset">Recomeçar guia</button></div></aside>
+      <aside class="guide-sidebar"><h2 data-i18n="guide.topics">Escolha um módulo</h2><nav id="guide-topics" aria-label="Escolha um módulo" data-i18n-aria="guide.topics"></nav><div class="guide-progress"><h3 data-i18n="guide.progress">Seu progresso</h3><progress id="guide-progress" value="0" max="32" aria-label="Seu progresso" data-i18n-aria="guide.progress"></progress><p id="guide-progress-text"></p><button id="guide-reset" type="button" data-i18n="guide.reset">Recomeçar guia</button></div></aside>
       <section class="guide-card" aria-labelledby="guide-topic-title"><div class="guide-topic-heading"><p id="guide-counter" class="eyebrow"></p><h2 id="guide-topic-title"></h2><p id="guide-description"></p></div><ol id="guide-steps" aria-label="Etapas" data-i18n-aria="guide.steps"></ol>
         <fieldset id="guide-edition" hidden><legend data-i18n="guide.edition">Qual edição você usa?</legend><label><input type="radio" name="edition" value="installer" checked><span data-i18n="guide.installer">Instalador</span></label><label><input type="radio" name="edition" value="portable"><span data-i18n="guide.portable">Portátil</span></label></fieldset>
         <div class="guide-step-body"><div><p id="guide-where" class="guide-location"></p><h3 id="guide-step-title" tabindex="-1"></h3><p id="guide-body"></p><a id="guide-action" class="button secondary" hidden></a><div class="guide-tip"><strong data-i18n="guide.tip">Dica do Aether</strong><p id="guide-tip"></p></div></div><figure class="guide-screen"><button type="button" id="guide-zoom"><img id="guide-image" src="assets/app-home-pt_BR.webp" alt="" width="1380" height="900"><span data-i18n="guide.zoom">Ampliar tela</span></button><figcaption data-i18n="guide.screen">Tela real do aplicativo</figcaption></figure></div>

diff --git a/website/styles.css b/website/styles.css
@@ -16,3 +16,4 @@
 
 /* Azphelumbra identity keeps the header within narrow viewports. */
 .brand{font-size:15px;letter-spacing:1.3px}.brand small{letter-spacing:1.8px;font-size:8px}
+.showcase-tabs{flex-wrap:wrap}
